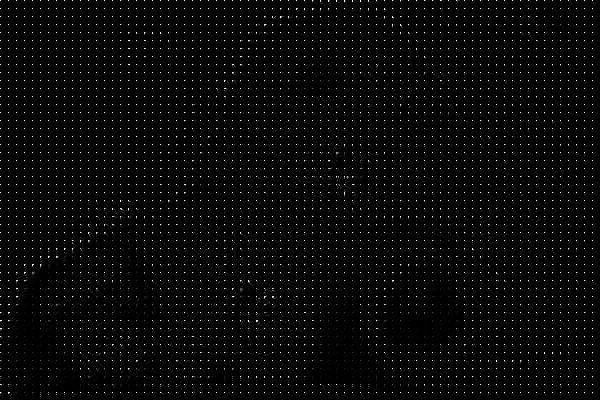
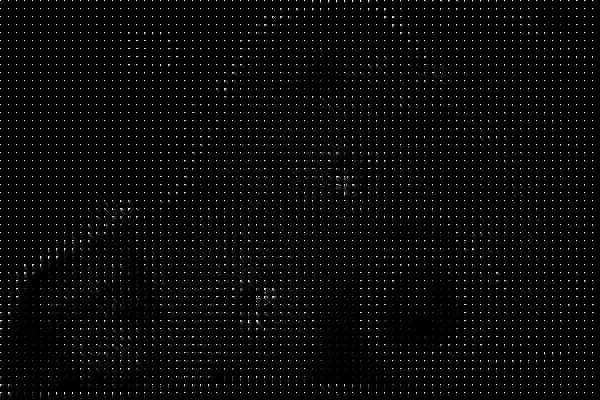
started watermarking this sh*t

diff --git a/project2/app.py b/project2/app.py
@@ -220,6 +220,7 @@ def k_thresh(img, k, size=8):
             img_thresh[i:(i + size), j:(j + size)] = keep_k_coeff(k, img[i:(i + size), j:(j + size)])
     return img_thresh
 
+
 def keep_k_coeff(k, block):
     """
     Keeps the k largest coefficients of a dct block and sets the rest to 0.
@@ -238,6 +239,28 @@ def keep_k_coeff(k, block):
     # Convert back to 2d array
     result = flat.reshape(height, width)
     return result
+
+
+def add_watermark(dct, w):
+    """
+    Adds a watermark to the dct domain.
+    :param dct:
+    :param w:
+    :return:
+    """
+    #TODO add
+    pass
+
+
+def add_watermark_one_block(block, w):
+    """
+    Adds a watermark for one single block
+    :param block:
+    :param w:
+    :return:
+    """
+    #TODO add
+    pass
 
 
 def black_and_white(img, t1, t2, t3):
@@ -353,10 +376,10 @@ if __name__ == "__main__":
     img_2_gr = cv2.cvtColor(img_2, cv2.COLOR_BGR2GRAY).astype(np.float32)
     save_image("ex2/img_2_gr", img_2_gr)
 
-    # Watermark insertion
+    # DCT
     pos = 8 * 29
     img_2_dct = dct_block(img_2_gr)
-    save_image("ex2/img_2_dct", img_2_dct)
+    save_image("ex2/img_2_dct", np.abs(img_2_dct))
 
     # Block of the original image
     block_original = cv2.resize(img_2_gr[pos:pos + 8, pos:pos + 8], (400, 400), interpolation=cv2.INTER_NEAREST)
@@ -364,20 +387,26 @@ if __name__ == "__main__":
 
     # Block of the dct image
     block_dct = cv2.resize(img_2_dct[pos:pos + 8, pos:pos + 8], (400, 400), interpolation=cv2.INTER_NEAREST)
-    save_image("ex2/block_dct", block_dct)
+    save_image("ex2/block_dct", np.abs(block_dct))
 
-    # Keep K highest DCT coefficients
-    for k in [4, 8, 16, 32]:
-        name = "ex2/img_after_thresh_k_" + str(k)
-        thresh_img = k_thresh(img_2_dct, k)
-        save_image(name, idc_block(thresh_img))
-        block_dct_thresh = cv2.resize(thresh_img[pos:pos + 8, pos:pos + 8], (400, 400),
-                                      interpolation=cv2.INTER_NEAREST)
-        block_name = "ex2/block_dct_thresh_" + str(k)
-        save_image(block_name, block_dct_thresh)
+    # # Keep K highest DCT coefficients
+    # for k in [4, 8, 16, 32]:
+    #     name = "ex2/img_after_thresh_k_" + str(k)
+    #     thresh_img = k_thresh(img_2_dct, k)
+    #     save_image(name, idc_block(thresh_img))
+    #     block_dct_thresh = cv2.resize(thresh_img[pos:pos + 8, pos:pos + 8], (400, 400),
+    #                                   interpolation=cv2.INTER_NEAREST)
+    #     block_name = "ex2/block_dct_thresh_" + str(k)
+    #     save_image(block_name, np.abs(block_dct_thresh))
+    #
+    # # Generate watermark
 
-    # Generate watermark
-
+    k = 16
+    mu = 0
+    sd = 1
+    a = 0.5  # watermark strength alpha
+    w = np.random.normal(mu, sd, k)
+    print(w)
 
     cv2.waitKey()
 
